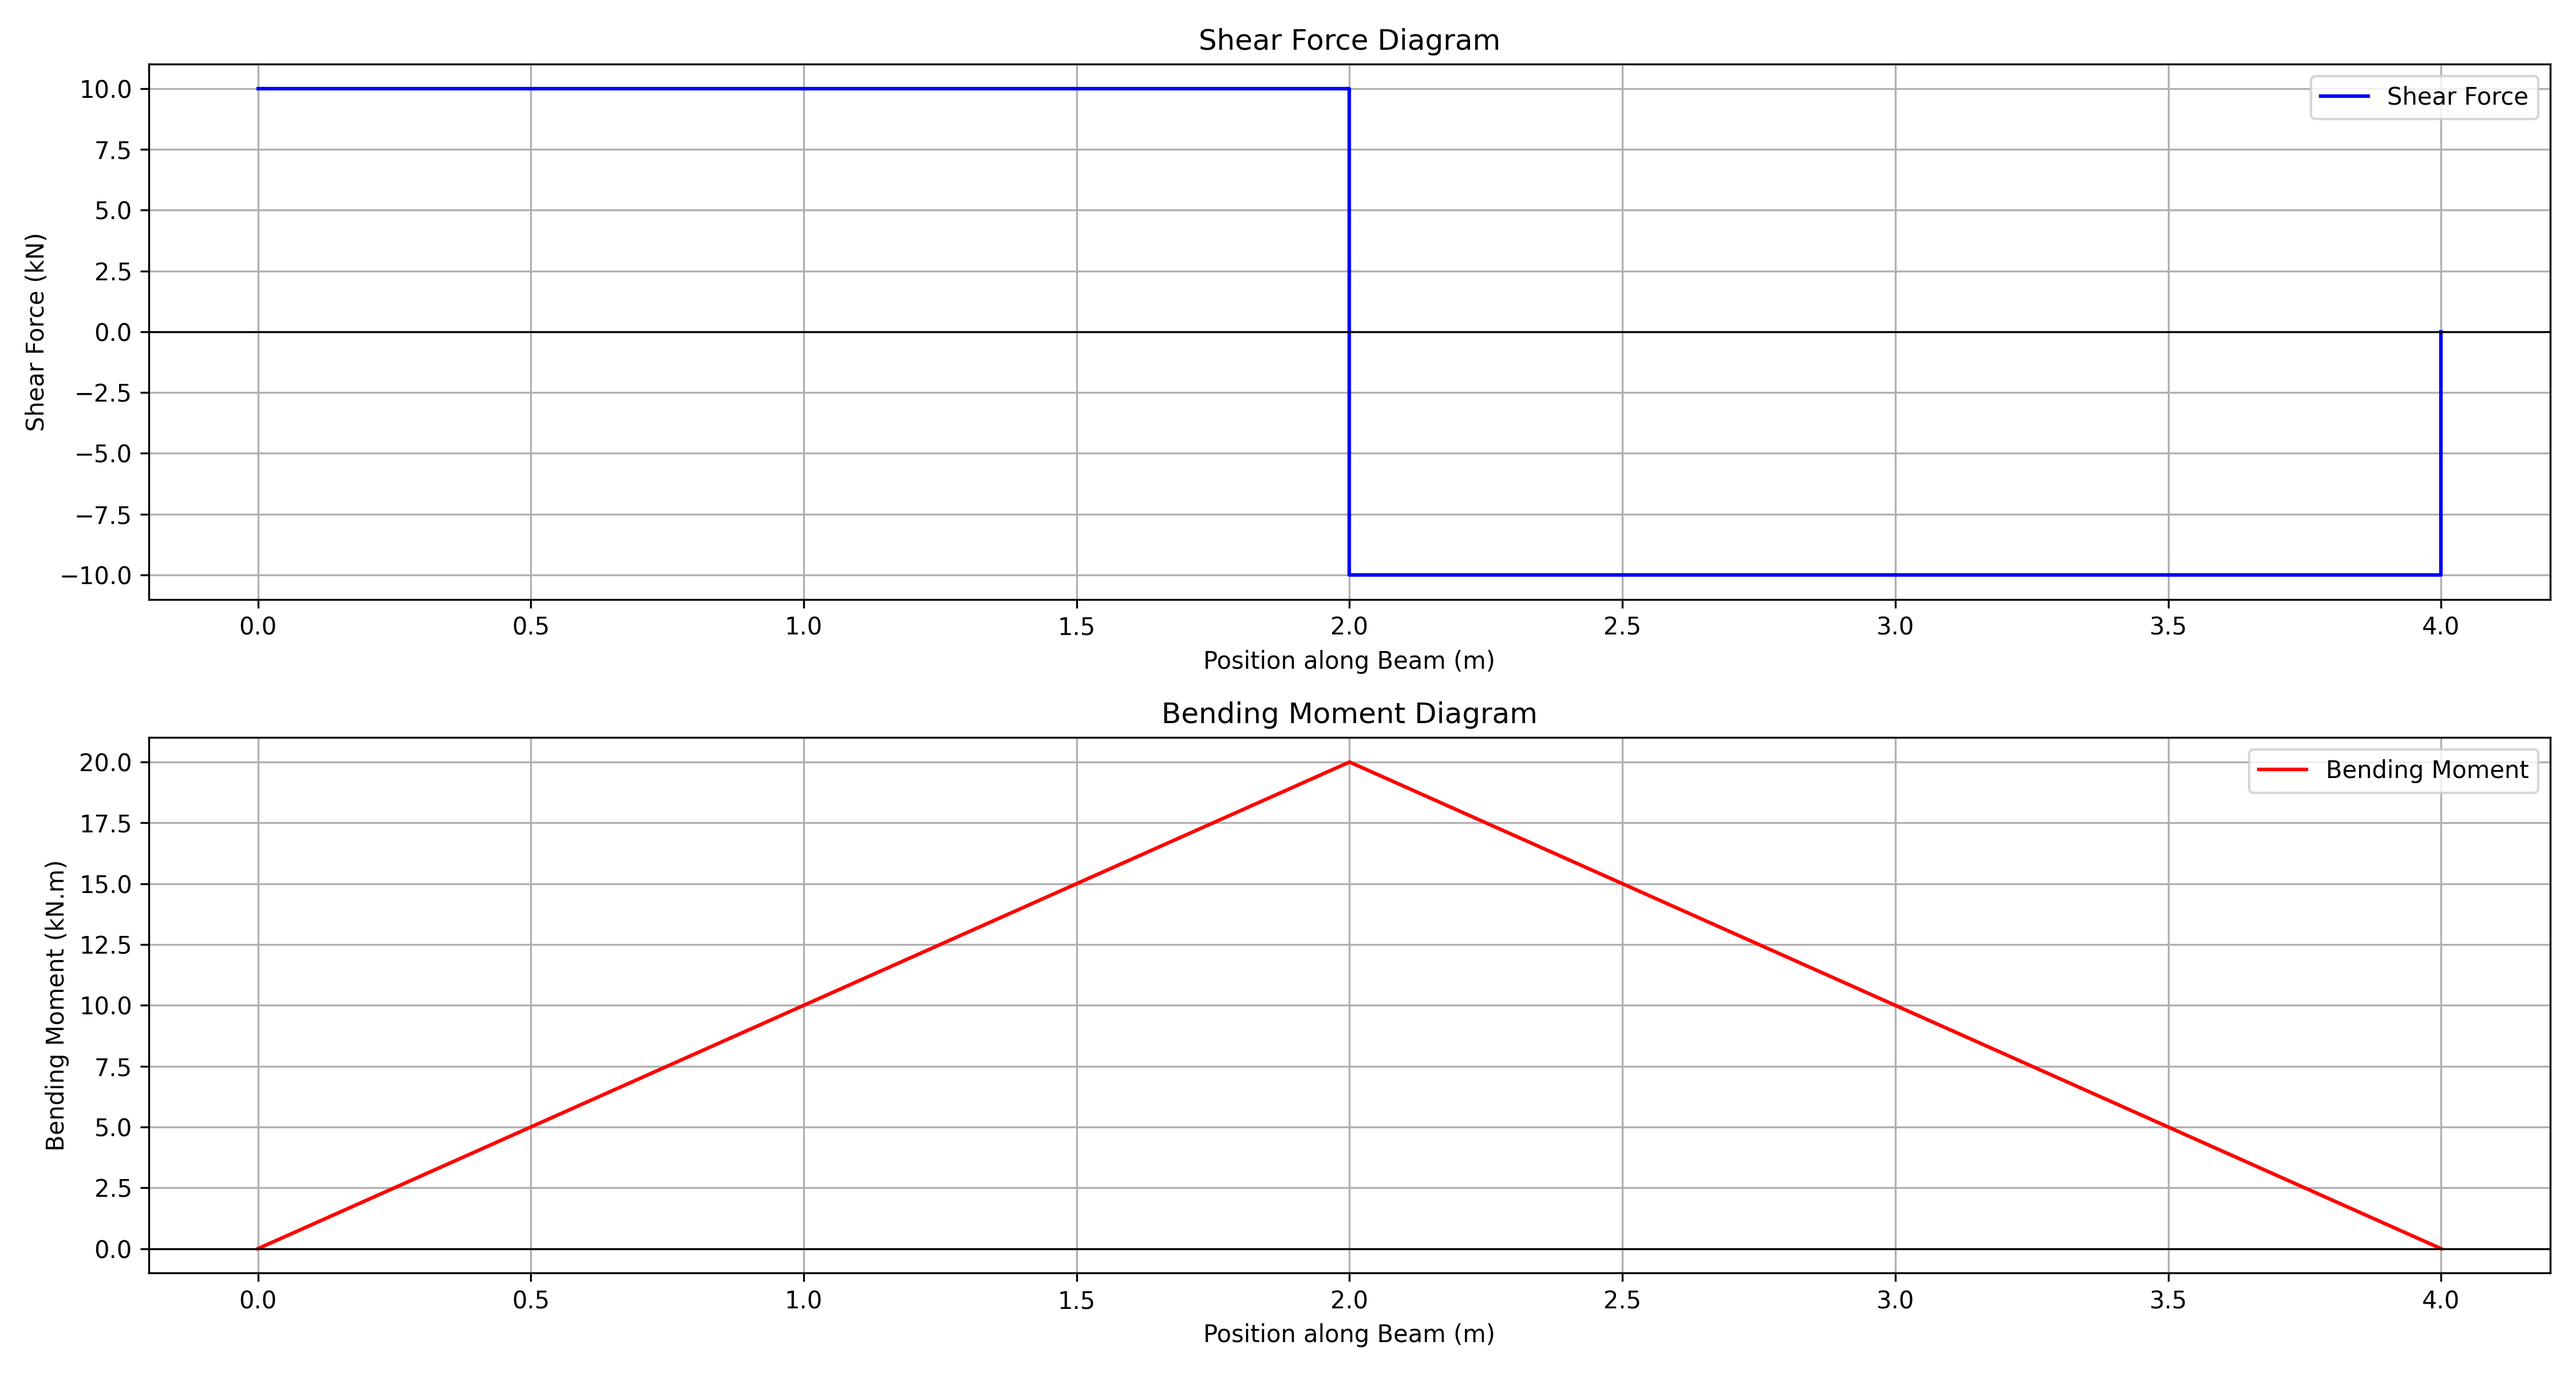
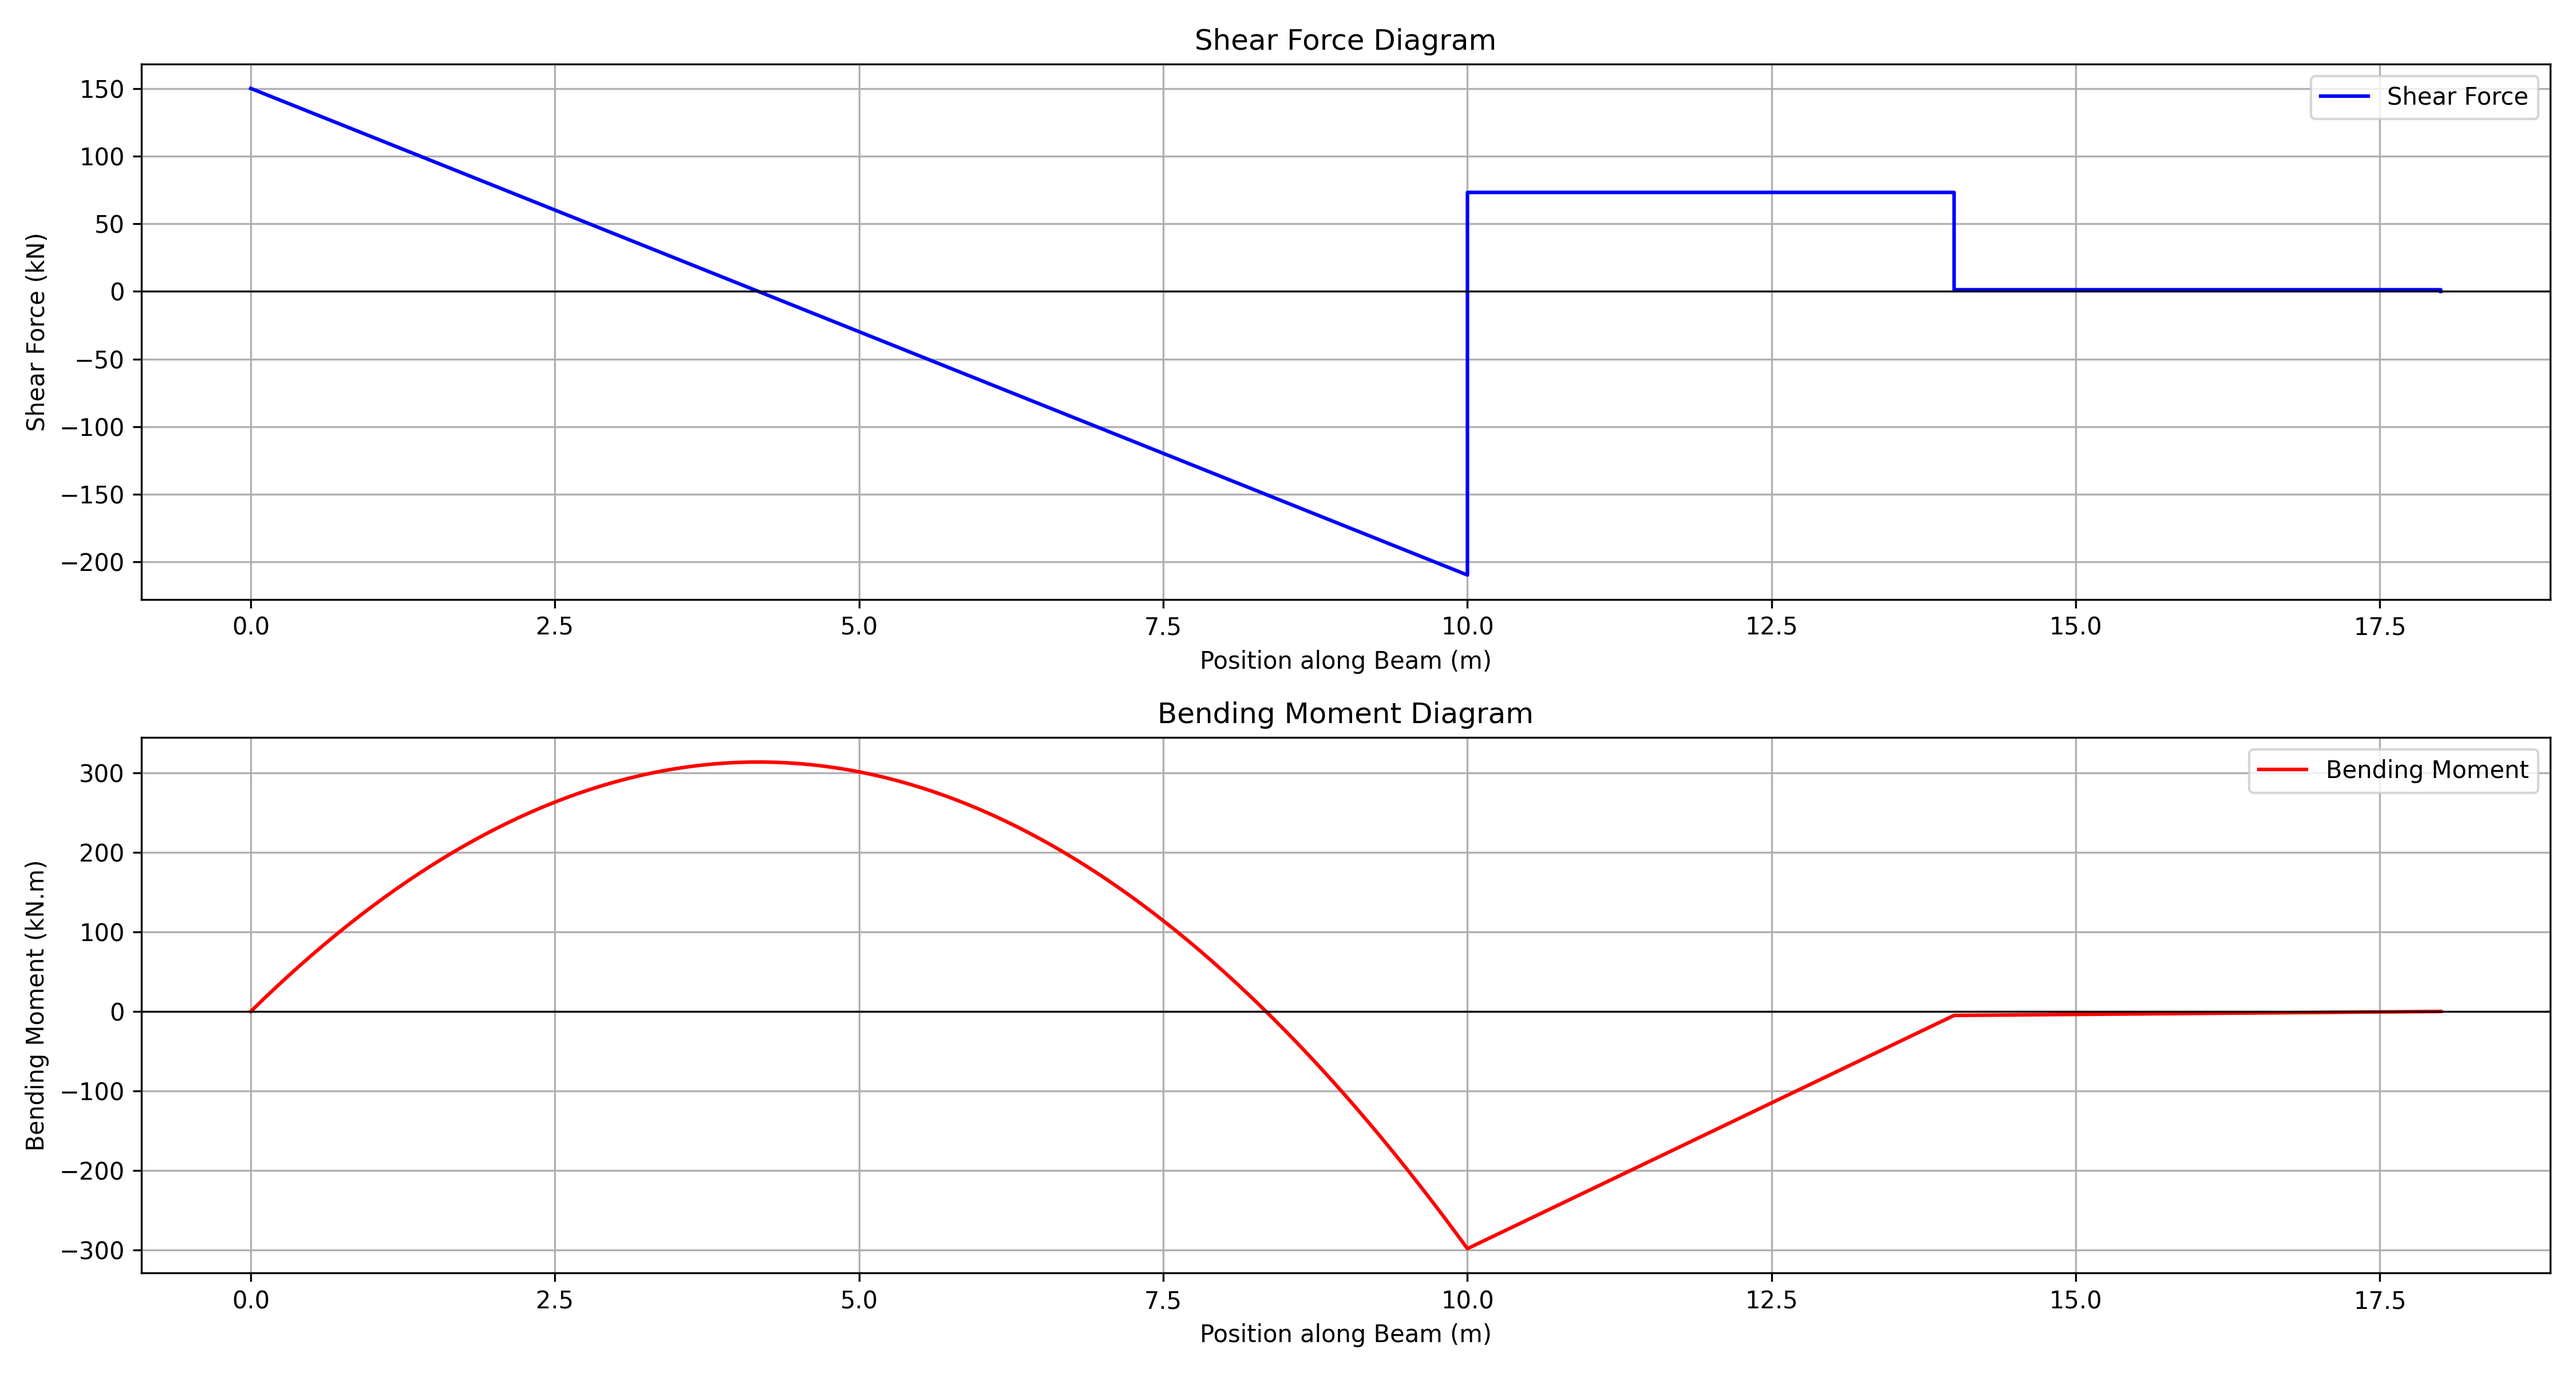
styling to the result

diff --git a/backend/templates/index.html b/backend/templates/index.html
@@ -243,50 +243,67 @@ function displayResults(result) {
     }
 
     const formattedFEM = result.fixed_end_moments.map((fem, index) => {
-        const keys = Object.keys(fem); // Dynamically get span names
-        return `Span ${index + 1}: ${keys[0]} = ${fem[keys[0]]?.toFixed(4) || 0} kNm, 
-            ${keys[1]} = ${fem[keys[1]]?.toFixed(4) || 0} kNm`;
-    }).join('<br>');
-    
-    // const formattedSlopeDeflection = result.slope_deflection_eq && result.slope_deflection_eq.length > 0
-    //     ? result.slope_deflection_eq.map(eq => `<p>${eq}</p>`).join('')
-    //     : "<p>No Slope Deflection Equation found.</p>";
+        const keys = Object.keys(fem);
+        return `<p><strong>Span ${index + 1}</strong>: ${keys[0]} = ${fem[keys[0]]?.toFixed(4) || 0} kNm, 
+                ${keys[1]} = ${fem[keys[1]]?.toFixed(4) || 0} kNm</p>`;
+    }).join('');
 
     const formattedShearForces = result.shear_forces.map((sf) => 
-        `Position: ${sf[0].toFixed(4)} m, Shear Force: ${sf[1].toFixed(4)} kN`
-    ).join('<br>');
+        `<p>Position: <strong>${sf[0].toFixed(2)} m</strong>, Shear Force: <strong>${sf[1].toFixed(4)} kN</strong></p>`
+    ).join('');
 
     const formattedBendingMoments = result.bending_moments.map((bm) => 
-        `Position: ${bm[0].toFixed(4)} m, Bending Moment: ${bm[1].toFixed(4)} kNm`
-    ).join('<br>');
+        `<p>Position: <strong>${bm[0].toFixed(2)} m</strong>, Bending Moment: <strong>${bm[1].toFixed(4)} kNm</strong></p>`
+    ).join('');
 
     const maxBM = result.max_bending_moment 
-    ? `Max Bending Moment: ${result.max_bending_moment.value.toFixed(4)} kNm at ${result.max_bending_moment.position.toFixed(4)} m`
-    : "Max Bending Moment: Not Found";
+        ? `<p><strong>Max Bending Moment:</strong> ${result.max_bending_moment.value.toFixed(4)} kNm at ${result.max_bending_moment.position.toFixed(4)} m</p>`
+        : "<p>Max Bending Moment: Not Found</p>";
 
     document.getElementById('results').innerHTML = `
-        <h2 class="text-xl font-semibold text-gray-800 mb-8">Analysis Results</h2>
-        <div class="container">
-            <p><strong>Fixed End Moments:</strong><br> ${formattedFEM}</p>
-            <p><strong>Theta Values (Slopes):</strong><br> ${result.theta_values?.join(', ') || 'None'}</p>
-            <p><strong>Final Moments:</strong><br> ${formatResults(result.final_moments)}</p>
-            <p><strong>Reactions:</strong><br> ${formatResults(result.reactions)}</p>
-            <p><strong>Shear Forces:</strong><br> ${formattedShearForces}</p>
-            <p><strong>Bending Moments:</strong><br> ${formattedBendingMoments}</p>
-            <p><strong>Maximum Bending Moment:</strong><br> ${maxBM}</p>
-        </div>
-        <div class="mt-4 graph">
-            <h3 class="text-lg font-semibold text-gray-800">Diagrams:</h3>
-            <img src="${result.diagram_path}" alt="Diagrams" class="mt-2 border rounded w-full">
+        <div class="grid grid-cols-1 md:grid-cols-2 gap-6 text-gray-900">
+            <div class="p-5 bg-white rounded-xl shadow-md">
+                <h3 class="text-lg font-semibold text-pink-500">Fixed End Moments</h3>
+                ${formattedFEM}
+            </div>
+            <div class="p-5 bg-white rounded-xl shadow-md">
+                <h3 class="text-lg font-semibold text-orange-500">Theta Values</h3>
+                ${result.theta_values?.join(', ') || 'None'}
+            </div>
+            <div class="p-5 bg-white rounded-xl shadow-md">
+                <h3 class="text-lg font-semibold text-yellow-500">Final Moments</h3>
+                ${formatResults(result.final_moments)}
+            </div>
+            <div class="p-5 bg-white rounded-xl shadow-md">
+                <h3 class="text-lg font-semibold text-blue-500">Reactions</h3>
+                ${formatResults(result.reactions)}
+            </div>
+            <div class="p-5 bg-white rounded-xl shadow-md">
+                <h3 class="text-lg font-semibold text-blue-500">Shear Forces</h3>
+                ${formattedShearForces}
+            </div>
+            <div class="p-5 bg-white rounded-xl shadow-md">
+                <h3 class="text-lg font-semibold text-green-500">Bending Moments</h3>
+                ${formattedBendingMoments}
+            </div>
+            <div class="p-5 bg-white rounded-xl shadow-md col-span-1 md:col-span-2">
+                <h3 class="text-lg font-semibold text-red-500">Max Bending Moment</h3>
+                ${maxBM}
+            </div>
+            <div class="mt-4 graph">
+                <h3 class="text-lg font-semibold text-gray-800">Diagrams:</h3>
+                <img src="${result.diagram_path}" alt="Diagrams" class="mt-2 border rounded w-full">
+            </div>
         </div>
     `;
 }
+
 
 function formatResults(data) {
     if (!data) return "No data available.";
     if (typeof data === 'object') {
         return Object.entries(data).map(([key, value]) => 
-            `${key}: ${typeof value === 'number' ? value.toFixed(4) : value}`
+            `${key}: ${typeof value === 'number' ? value.toFixed(2) : value}`
         ).join("<br>");
     }
     return data;
